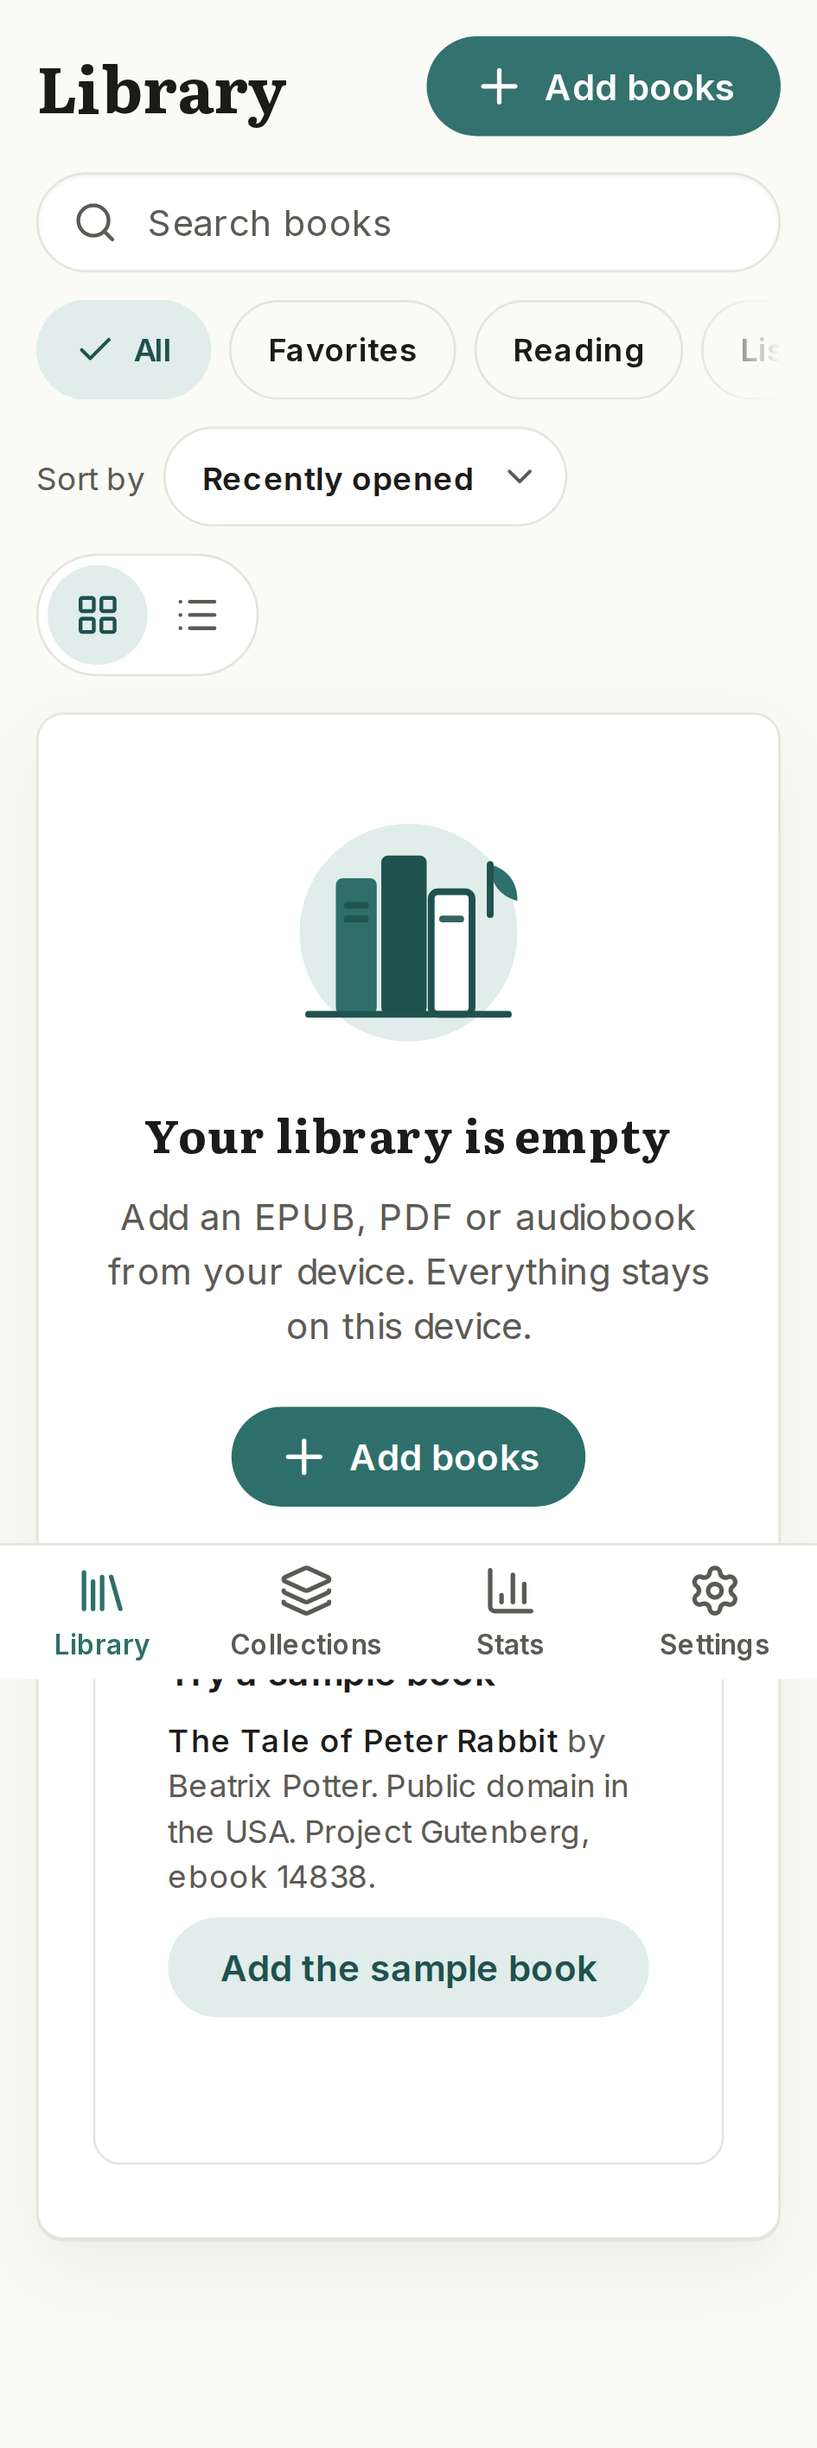
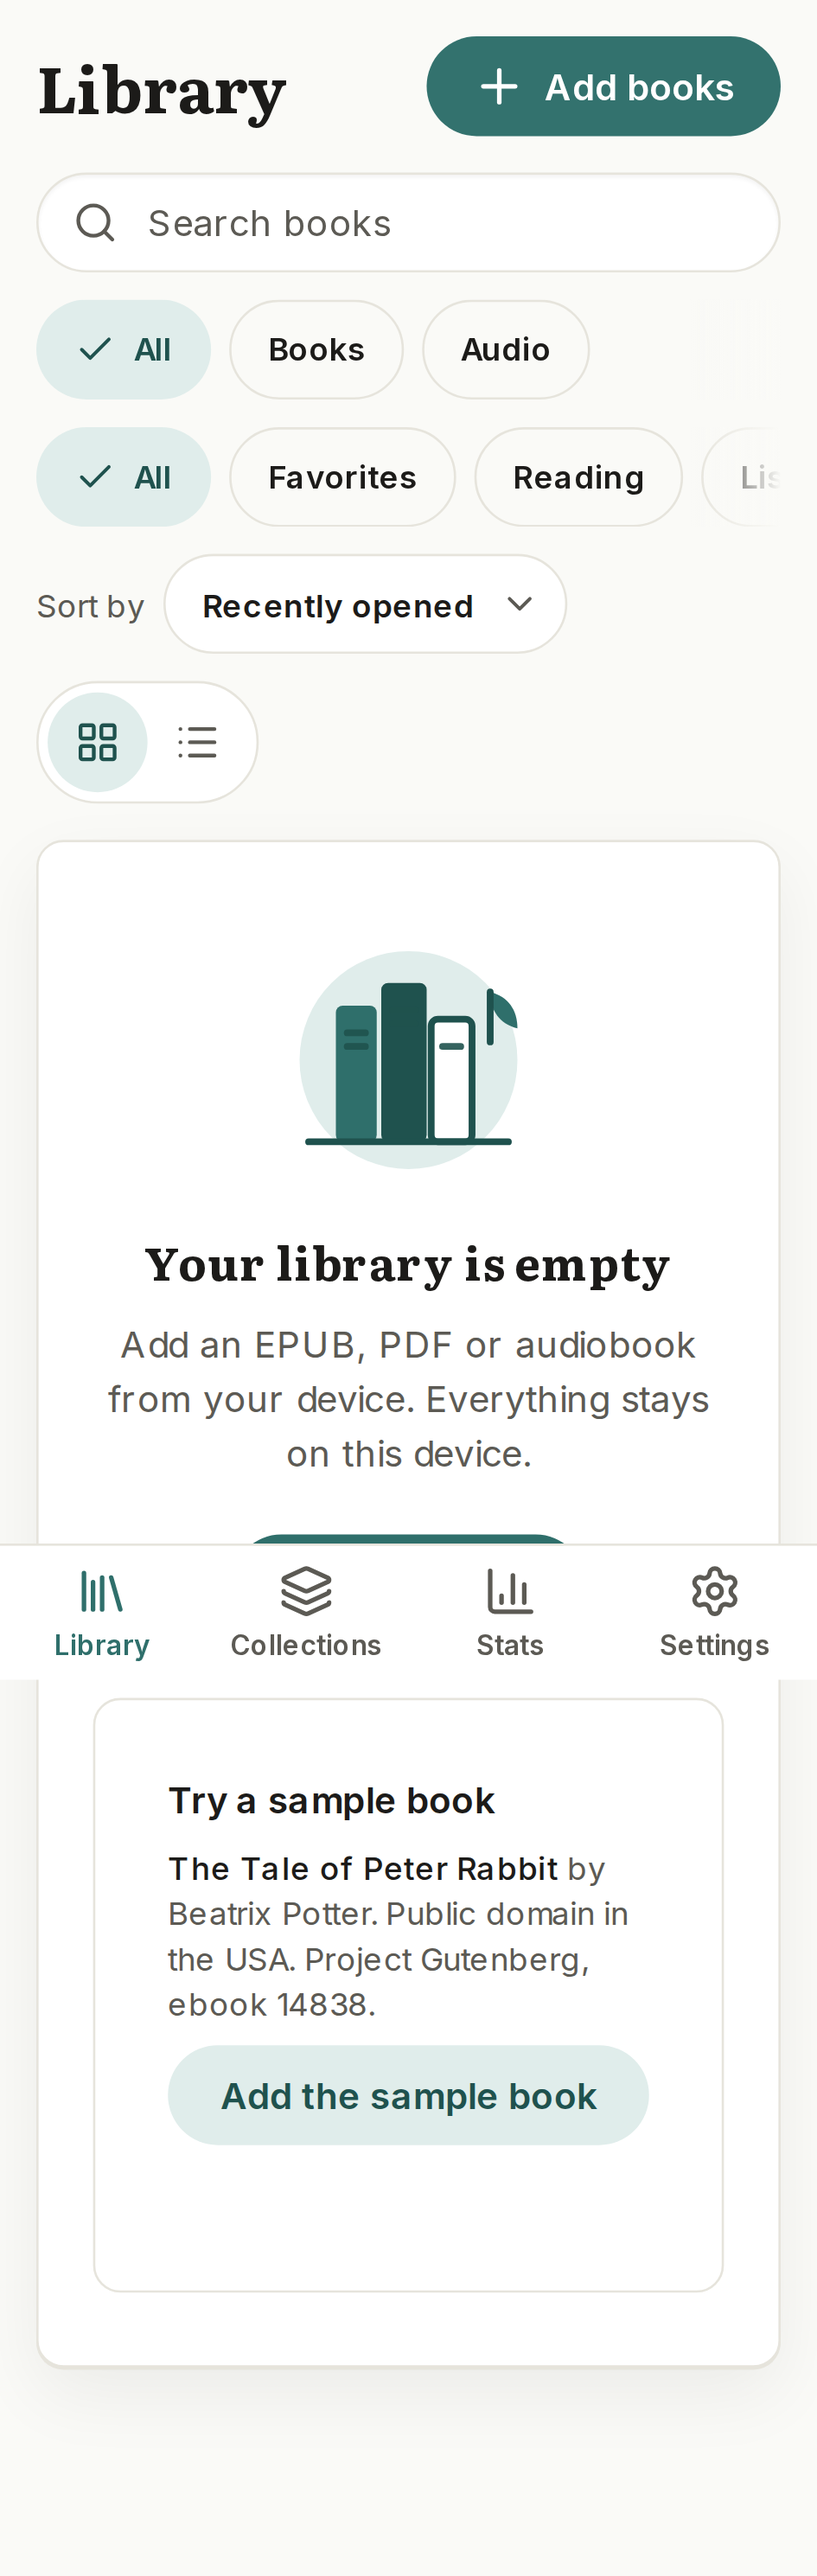
docs: live smoke table for 663d74f + WebKit library/import screenshots

diff --git a/docs/screens/release-smoke-live/pagenest-42f.pages.dev/README.md b/docs/screens/release-smoke-live/pagenest-42f.pages.dev/README.md
@@ -8,25 +8,36 @@ Run:
 npm run smoke:live -- https://pagenest-42f.pages.dev/
 ```
 
-## Deploy `109a37b` smoke (2026-11-01)
+## Deploy `663d74f` smoke (2026-11-02)
 
-Bundle: `main-CaS_SA7T.js` / `engine-foliate-CVVxng76.js`.
+Production at `663d74f` (`b7ec1fc` asset headers + `#37` library segments). Bundle unchanged: `main-CaS_SA7T.js` / `engine-foliate-CVVxng76.js`.
 
 | Phase | Chromium | WebKit |
 |-------|----------|--------|
 | Upgrade | **PASS** | **FAIL** — foliate 240s (“Still opening…”) |
 | Core | **PASS** | **FAIL** — foliate 240s |
-| OPFS blocked | skip | skip (suite exited) |
-| Read-aloud device | not run | not run |
-| Read-aloud legacy Piper | not run | not run |
+| OPFS blocked | skip | skip (suite exited on WebKit) |
+| Read-aloud (device) | not run | not run |
+| Read-aloud (legacy Piper) | not run | not run |
 
-**Root cause (WebKit):** Cloudflare Pages merged the global `/*` `_headers` rule with `/assets/*`, so **CSP and COOP were sent on JavaScript module responses**. WebKit loaded `foliate-view` but book iframe documents stayed empty. Fixed in **`b7ec1fc`** (document headers on HTML routes only). Re-run live smoke after that deploy.
+**Root cause (WebKit, live):** Document CSP still included `frame-ancestors 'none'`. WebKit refuses blob EPUB iframe loads (`Refused to load blob:… frame-ancestors`). **Fixed on `main` in `cad50b3` (#39)** — drop `frame-ancestors` from CSP; keep `X-Frame-Options: DENY`. Deploy `cad50b3` and re-run `smoke:live` for full green.
 
-Screenshots in this folder from the Chromium portions of that run; WebKit foliate shots pending green smoke post-`b7ec1fc`.
+**Screenshots:** Chromium full core + upgrade paths in this folder. WebKit: library / import / upgrade-import only (foliate never opened).
+
+## Deploy `109a37b` smoke (2026-11-01)
+
+| Phase | Chromium | WebKit |
+|-------|----------|--------|
+| Upgrade | **PASS** | **FAIL** — foliate 240s |
+| Core | **PASS** | **FAIL** — foliate 240s |
+
+Asset CSP/COOP on `/assets/*` fixed in **`b7ec1fc`**.
 
 ## Prior merges on this host
 
 | SHA | Notes |
 |-----|--------|
-| `109a37b` | WebKit foliate bootstrap + build-time sandbox strip (#35) |
-| `571119b` | Tap zones (#30), page turn (#31), smoke console guards |
+| `cad50b3` | CSP: omit `frame-ancestors` for WebKit blob EPUB (#39) — merge pending deploy |
+| `663d74f` | All / Books / Audio segments (#37) |
+| `b7ec1fc` | CSP/COOP scoped to HTML routes only (#36) |
+| `109a37b` | WebKit foliate bootstrap + sandbox strip (#35) |
